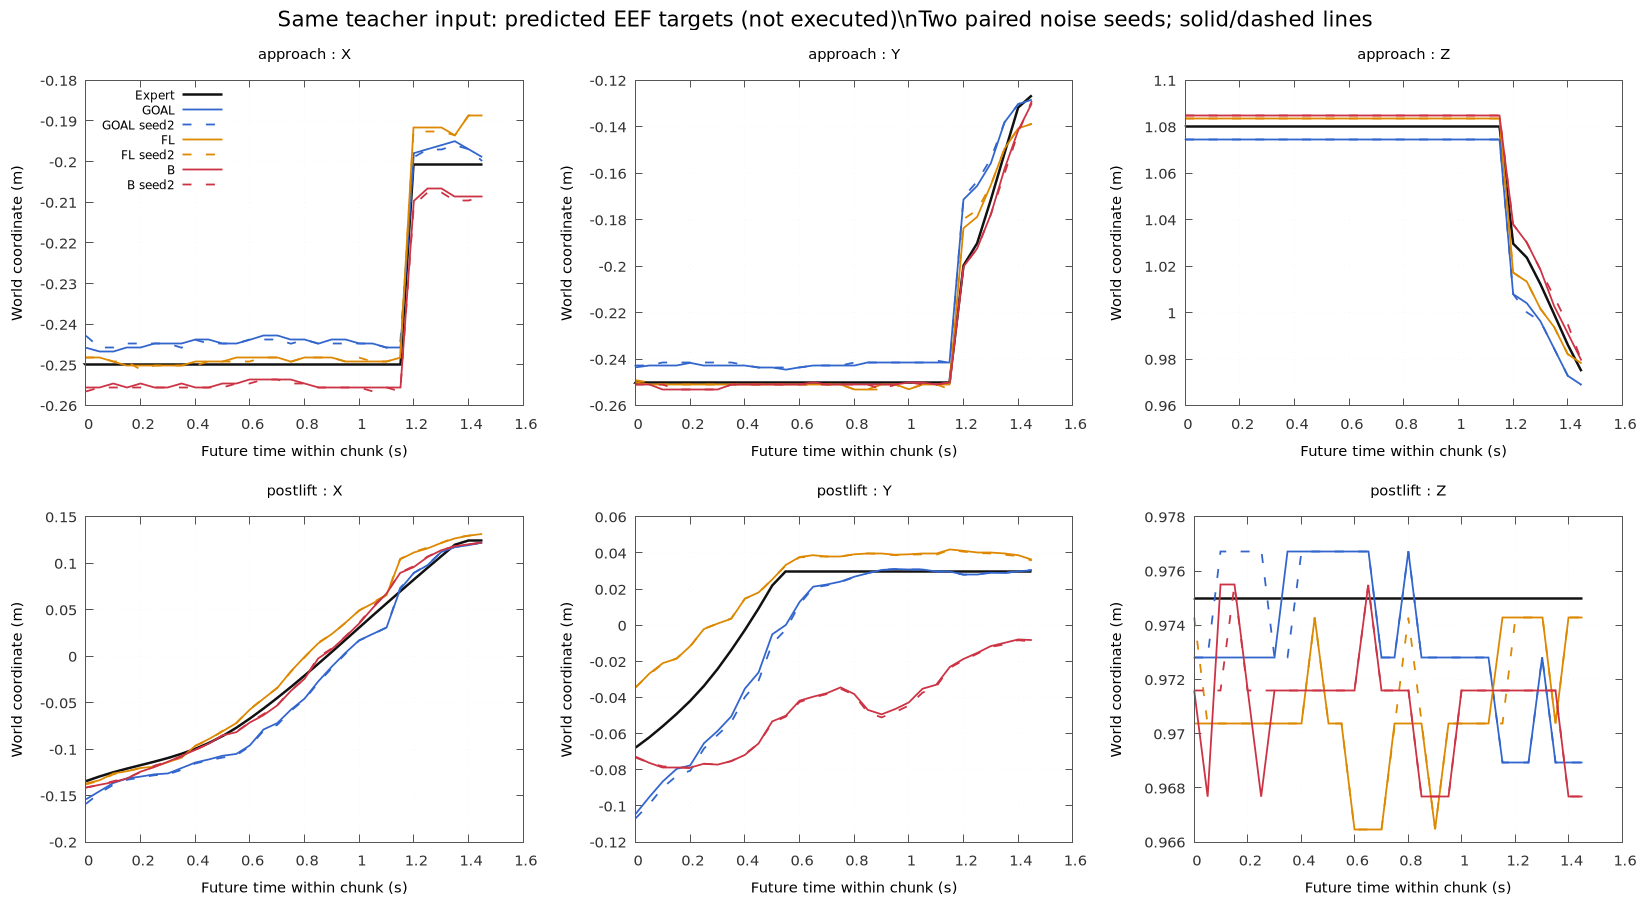
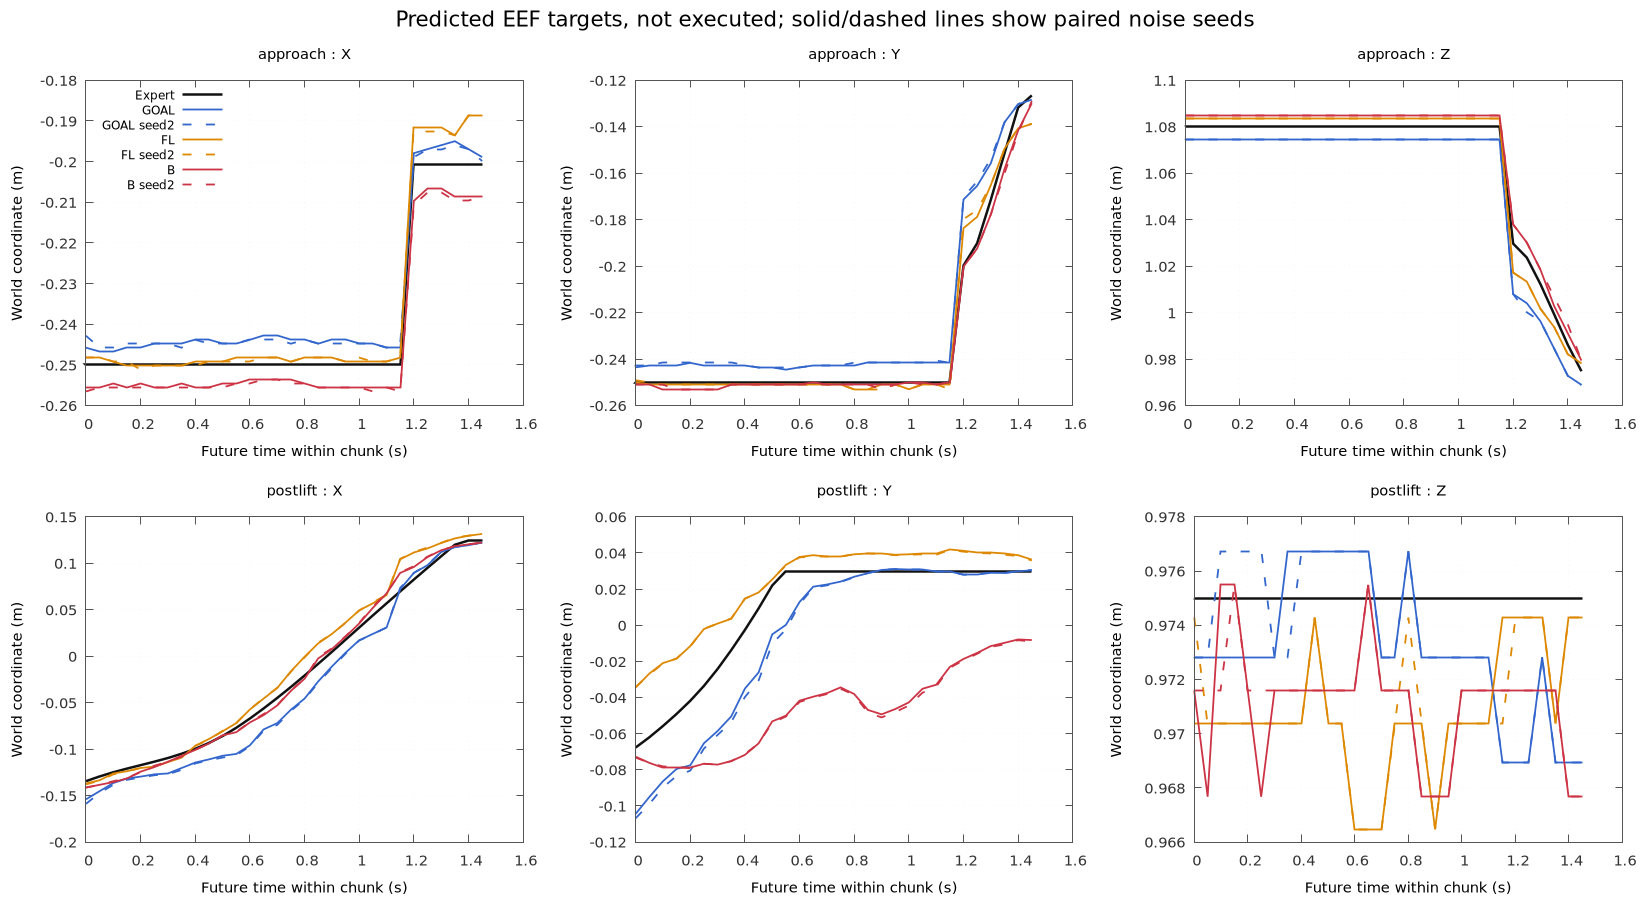
Clarify proposal plot caption and record visual validation

Changed region(s): [[0.1545, 0.0, 0.8345, 0.0311]]

diff --git a/scripts/eval02_fit_plot.py b/scripts/eval02_fit_plot.py
@@ -13,7 +13,7 @@ for packet in ['approach','postlift']:
    cols.append(np.load(Path(row['directory'])/'proposal.npz')['predicted'][:,:3]);names.append(model+' '+str(seed))
  data=O/(packet+'-plot.tsv');np.savetxt(data,np.column_stack(cols),delimiter='\t')
  specs.append((packet,data))
-base=["set encoding utf8","set grid lc rgb '#dddddd'","set border lc rgb '#555555'","set tics textcolor rgb '#333333'","set xlabel 'Future time within chunk (s)'","set ylabel 'World coordinate (m)'","set multiplot layout 2,3 title 'Same teacher input: predicted EEF targets (not executed)\\nTwo paired noise seeds; solid/dashed lines' font ',16'"]
+base=["set encoding utf8","set grid lc rgb '#dddddd'","set border lc rgb '#555555'","set tics textcolor rgb '#333333'","set xlabel 'Future time within chunk (s)'","set ylabel 'World coordinate (m)'","set multiplot layout 2,3 title 'Predicted EEF targets, not executed; solid/dashed lines show paired noise seeds' font ',16'"]
 colors=['#111111','#3366cc','#3366cc','#dd8800','#dd8800','#cc3344','#cc3344']
 for row,(packet,data) in enumerate(specs):
  for axis in range(3):
